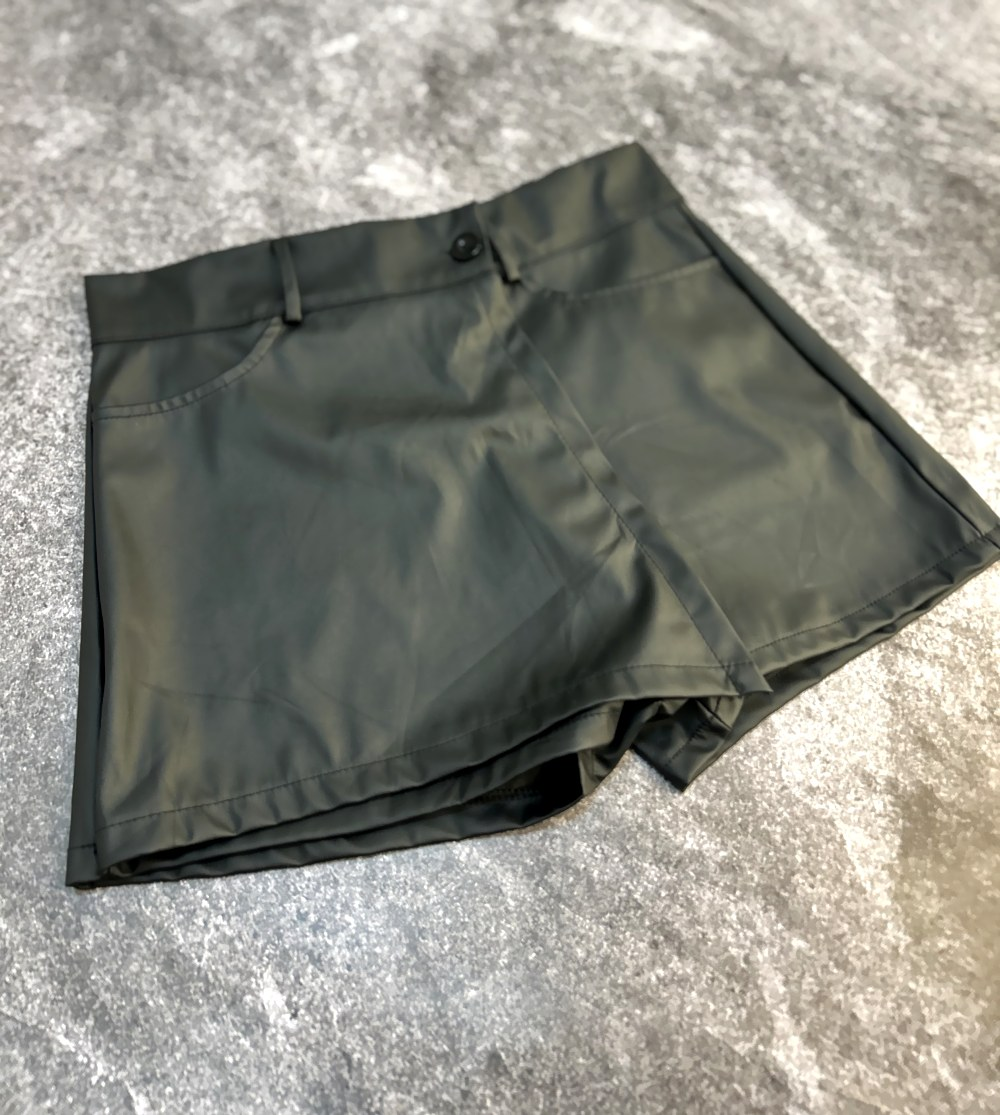
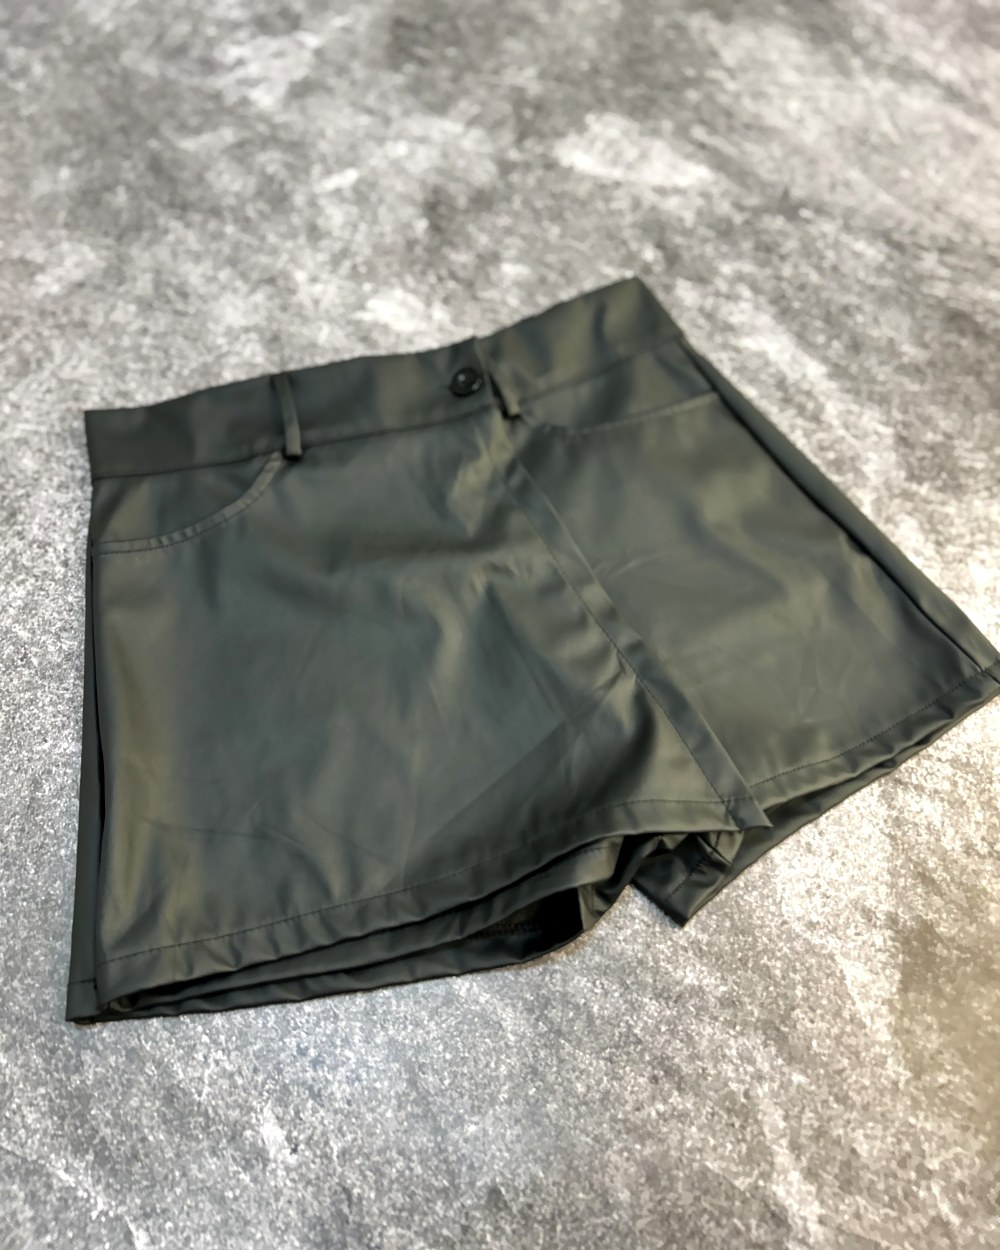
Shorts de cuero: fotos centradas en la prenda

diff --git a/index.html b/index.html
@@ -243,7 +243,7 @@
 <div class="sheet" id="sheet" role="dialog" aria-modal="true"></div>
 <div class="toast" id="toast"></div>
 
-<script src="stock.js?v=20261125135748"></script>
+<script src="stock.js?v=20261125135941"></script>
 <script>
 (function(){
   const C = Object.assign({descuento:15, redondeo:0, whatsapp:"", tiktok:""}, window.CONFIG||{});
